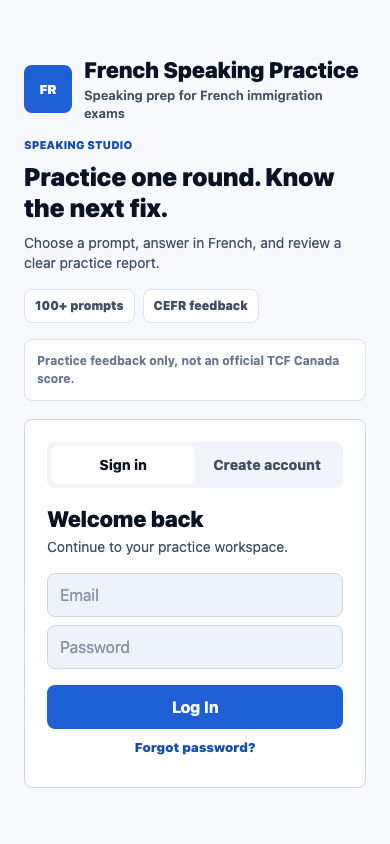
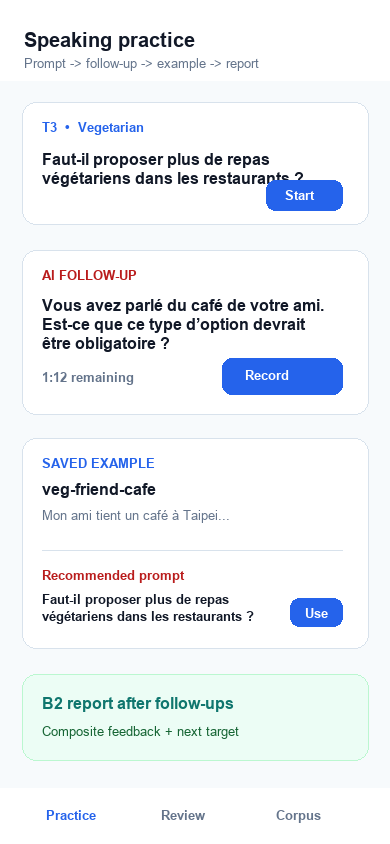
visual: simplify showcase product demo

diff --git a/index.html b/index.html
@@ -96,15 +96,15 @@
               <span></span>
               <strong data-i18n="demo.toolbar">Product practice loop</strong>
             </div>
-            <img src="assets/ai-speaking-feedback-flow.gif" alt="Animated real app flow showing prompt bank, topic classification, AI follow-up questions, timed recording, composite report, and saved examples" />
+            <img src="assets/ai-speaking-feedback-flow.gif" alt="Animated product flow showing prompt bank, answer-based AI follow-up, an actual saved example matched to a related prompt, and mobile practice review" />
             <div class="followup-callout" aria-label="AI follow-up question highlight">
               <span data-i18n="demo.calloutLabel">Real product loop</span>
-              <strong data-i18n="demo.calloutTitle">Past prompts, AI follow-up, timed reports, saved examples.</strong>
-              <p data-i18n="demo.calloutText">The GIF shows the same product points with actual app screens.</p>
+              <strong data-i18n="demo.calloutTitle">Prompt bank, AI follow-up, example-to-prompt recommendation.</strong>
+              <p data-i18n="demo.calloutText">The GIF keeps each product point on its own clean screen.</p>
             </div>
           </div>
           <div class="demo-caption" data-i18n="demo.caption">
-            Real app GIF: prompt bank -> AI follow-up -> timed recording -> composite report -> saved examples
+            Product GIF: prompt bank -> answer-based follow-up -> actual example recommendation -> mobile flow
           </div>
         </div>
       </section>
@@ -181,11 +181,11 @@
             </div>
           </article>
           <article>
-            <img src="assets/product-saved-examples.png" alt="Real product screen showing reusable speaking examples panel" />
+            <img src="assets/product-saved-examples.png" alt="Product screen showing an actual saved example matched to a related speaking prompt" />
             <div>
               <span data-i18n="evidence.savedLabel">Saved examples</span>
-              <h3 data-i18n="evidence.savedTitle">Reusable examples stay beside the speaking prompt.</h3>
-              <p data-i18n="evidence.savedText">Learners can save useful personal examples and adapt them to related topics later.</p>
+              <h3 data-i18n="evidence.savedTitle">Saved examples recommend related speaking prompts.</h3>
+              <p data-i18n="evidence.savedText">The example “veg-friend-cafe” is matched to a vegetarian restaurant prompt from the recommendation eval set.</p>
             </div>
           </article>
           <article>
@@ -294,9 +294,9 @@
           "metric.savedSub": "related practice",
           "demo.toolbar": "Product practice loop",
           "demo.calloutLabel": "Real product loop",
-          "demo.calloutTitle": "Past prompts, AI follow-up, timed reports, saved examples.",
-          "demo.calloutText": "The GIF shows the same product points with actual app screens.",
-          "demo.caption": "Real app GIF: prompt bank -> AI follow-up -> timed recording -> composite report -> saved examples",
+          "demo.calloutTitle": "Prompt bank, AI follow-up, example-to-prompt recommendation.",
+          "demo.calloutText": "The GIF keeps each product point on its own clean screen.",
+          "demo.caption": "Product GIF: prompt bank -> answer-based follow-up -> actual example recommendation -> mobile flow",
           "workflow.eyebrow": "Product workflow",
           "workflow.title": "From past prompt patterns to related practice loops.",
           "workflow.oneTitle": "Browse prompt patterns",
@@ -323,8 +323,8 @@
           "evidence.reportTitle": "The report appears after the follow-up sequence.",
           "evidence.reportText": "The final report combines the main answer and practiced follow-ups, while still allowing optional extra follow-up practice.",
           "evidence.savedLabel": "Saved examples",
-          "evidence.savedTitle": "Reusable examples stay beside the speaking prompt.",
-          "evidence.savedText": "Learners can save useful personal examples and adapt them to related topics later.",
+          "evidence.savedTitle": "Saved examples recommend related speaking prompts.",
+          "evidence.savedText": "The example “veg-friend-cafe” is matched to a vegetarian restaurant prompt from the recommendation eval set.",
           "evidence.mobileLabel": "Mobile flow",
           "evidence.mobileTitle": "Practice and review continue on smaller screens.",
           "evidence.mobileText": "The core loop stays available for mobile testing and future app-store rollout.",
@@ -372,9 +372,9 @@
           "metric.savedSub": "推薦相關練習",
           "demo.toolbar": "產品練習流程",
           "demo.calloutLabel": "真實產品流程",
-          "demo.calloutTitle": "過去題型、AI 追問、計時報告、保存例子。",
-          "demo.calloutText": "這個 GIF 用真實產品畫面呈現同樣的重點。",
-          "demo.caption": "真實 App GIF：題庫 -> AI 追問 -> 計時錄音 -> 整合報告 -> 保存例子",
+          "demo.calloutTitle": "題庫、AI 追問、例子推薦相關題目。",
+          "demo.calloutText": "GIF 把每個產品重點拆成乾淨的單一畫面。",
+          "demo.caption": "產品 GIF：題庫 -> 根據回答追問 -> 實際例子推薦題目 -> 手機流程",
           "workflow.eyebrow": "產品流程",
           "workflow.title": "從過去題型方向到相關題目練習循環。",
           "workflow.oneTitle": "瀏覽題型方向",
@@ -401,8 +401,8 @@
           "evidence.reportTitle": "追問流程後才顯示完整報告。",
           "evidence.reportText": "最後報告會合成主回答與已完成追問；使用者仍可在報告後繼續做額外追問練習。",
           "evidence.savedLabel": "保存例子",
-          "evidence.savedTitle": "可重用例子會留在口說題旁邊。",
-          "evidence.savedText": "學習者可以保存好用的個人例子，之後套用到相關主題。",
+          "evidence.savedTitle": "保存例子會推薦相關口說題。",
+          "evidence.savedText": "實際例子「veg-friend-cafe」會被配對到素食餐廳相關題，這組也在推薦評估資料中測試。",
           "evidence.mobileLabel": "手機流程",
           "evidence.mobileTitle": "小螢幕也能繼續練習與複習。",
           "evidence.mobileText": "核心練習循環可延伸到手機測試與未來上架。",
@@ -454,9 +454,9 @@
         "metric.savedSub": "推荐相关练习",
         "demo.toolbar": "产品练习流程",
         "demo.calloutLabel": "真实产品流程",
-        "demo.calloutTitle": "过去题型、AI 追问、计时报告、保存例子。",
-        "demo.calloutText": "这个 GIF 用真实产品画面呈现同样的重点。",
-        "demo.caption": "真实 App GIF：题库 -> AI 追问 -> 计时录音 -> 整合报告 -> 保存例子",
+        "demo.calloutTitle": "题库、AI 追问、例子推荐相关题目。",
+        "demo.calloutText": "GIF 把每个产品重点拆成干净的单一画面。",
+        "demo.caption": "产品 GIF：题库 -> 根据回答追问 -> 实际例子推荐题目 -> 手机流程",
         "workflow.eyebrow": "产品流程",
         "workflow.title": "从过去题型方向到相关题目练习循环。",
         "workflow.oneTitle": "浏览题型方向",
@@ -483,8 +483,8 @@
         "evidence.reportTitle": "追问流程后才显示完整报告。",
         "evidence.reportText": "最后报告会合成主回答与已完成追问；用户仍可在报告后继续做额外追问练习。",
         "evidence.savedLabel": "保存例子",
-        "evidence.savedTitle": "可复用例子会留在口语题旁边。",
-        "evidence.savedText": "学习者可以保存好用的个人例子，之后套用到相关主题。",
+        "evidence.savedTitle": "保存例子会推荐相关口语题。",
+        "evidence.savedText": "实际例子“veg-friend-cafe”会被配对到素食餐厅相关题，这组也在推荐评估资料中测试。",
         "evidence.mobileLabel": "手机流程",
         "evidence.mobileTitle": "小屏幕也能继续练习与复习。",
         "evidence.mobileText": "核心练习循环可延伸到手机测试与未来上架。",
@@ -534,9 +534,9 @@
         "metric.savedSub": "pratique liee",
         "demo.toolbar": "Boucle de pratique produit",
         "demo.calloutLabel": "Vrai parcours produit",
-        "demo.calloutTitle": "Sujets passes, suivi IA, rapports chronometres, exemples sauvegardes.",
-        "demo.calloutText": "Le GIF montre ces points avec de vrais ecrans de l'app.",
-        "demo.caption": "GIF reel de l'app : banque de sujets -> suivi IA -> enregistrement chronometre -> rapport compose -> exemples sauvegardes",
+        "demo.calloutTitle": "Banque de sujets, suivi IA, recommandation exemple-sujet.",
+        "demo.calloutText": "Le GIF separe chaque point produit sur un ecran clair.",
+        "demo.caption": "GIF produit : banque de sujets -> suivi base sur la reponse -> exemple reel recommande -> parcours mobile",
         "workflow.eyebrow": "Parcours produit",
         "workflow.title": "Des tendances de sujets passes aux boucles de pratique liees.",
         "workflow.oneTitle": "Explorer les types de sujets",
@@ -563,8 +563,8 @@
         "evidence.reportTitle": "Le rapport apparait apres la sequence de suivi.",
         "evidence.reportText": "Le rapport final combine la reponse principale et les suivis pratiques, avec la possibilite de continuer des suivis optionnels.",
         "evidence.savedLabel": "Exemples sauvegardes",
-        "evidence.savedTitle": "Les exemples reutilisables restent pres du sujet.",
-        "evidence.savedText": "Les apprenants peuvent sauvegarder de bons exemples personnels et les adapter a des themes proches.",
+        "evidence.savedTitle": "Les exemples sauvegardes recommandent des sujets lies.",
+        "evidence.savedText": "L'exemple « veg-friend-cafe » est associe a un sujet sur les repas vegetariens dans les restaurants, aussi couvert par l'eval de recommandation.",
         "evidence.mobileLabel": "Parcours mobile",
         "evidence.mobileTitle": "La pratique et la revision continuent sur petit ecran.",
         "evidence.mobileText": "La boucle principale reste disponible pour les tests mobiles et le futur lancement app-store.",